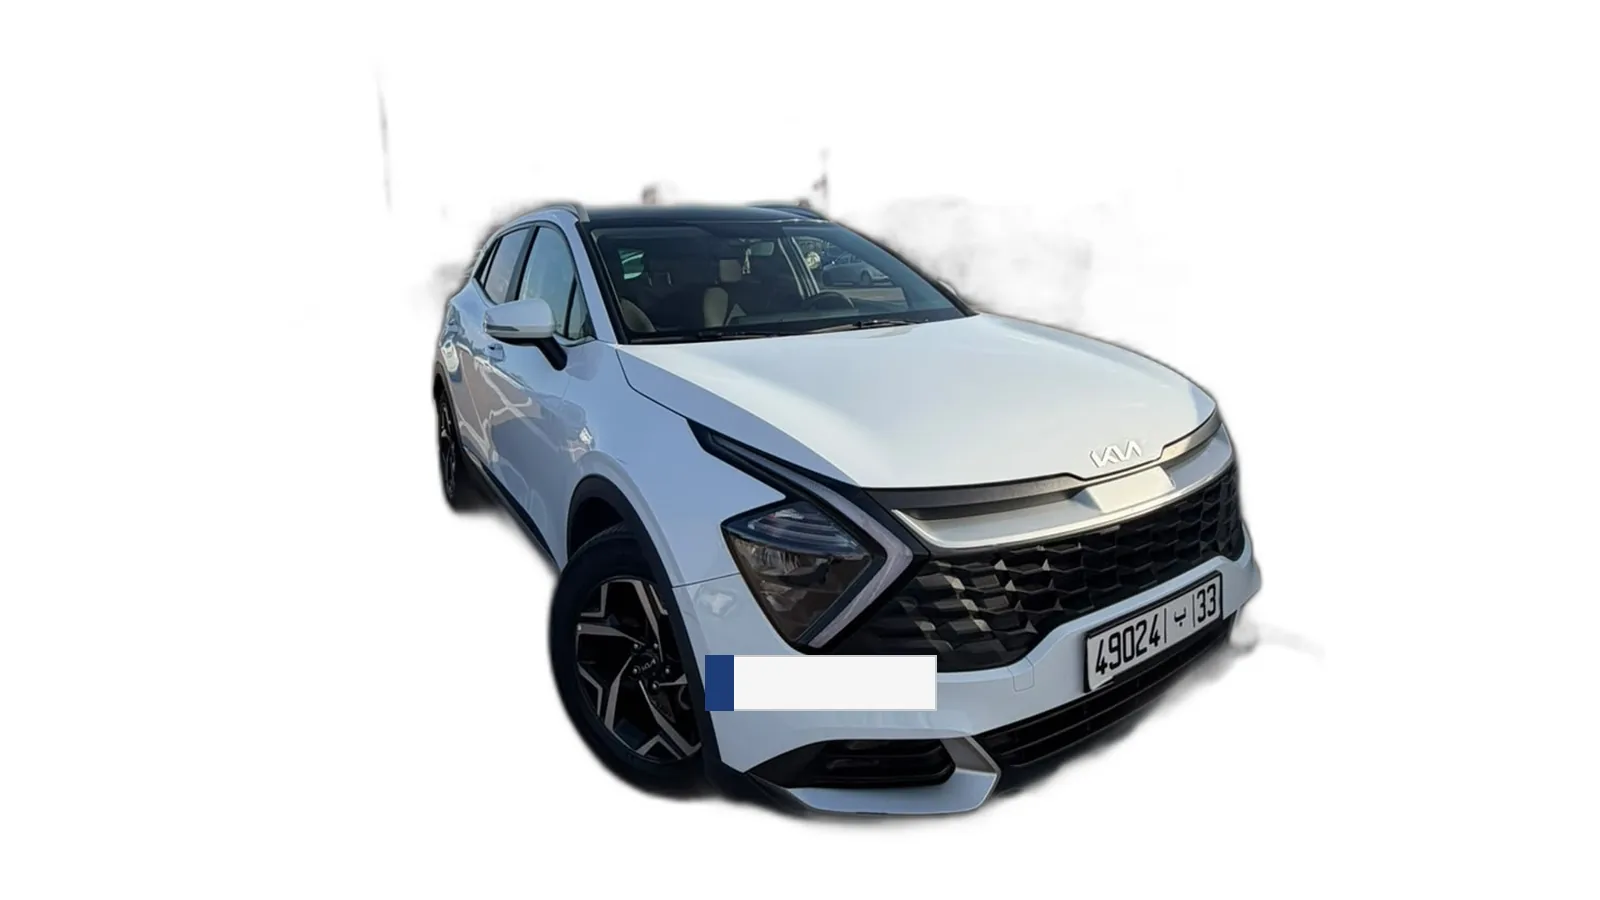
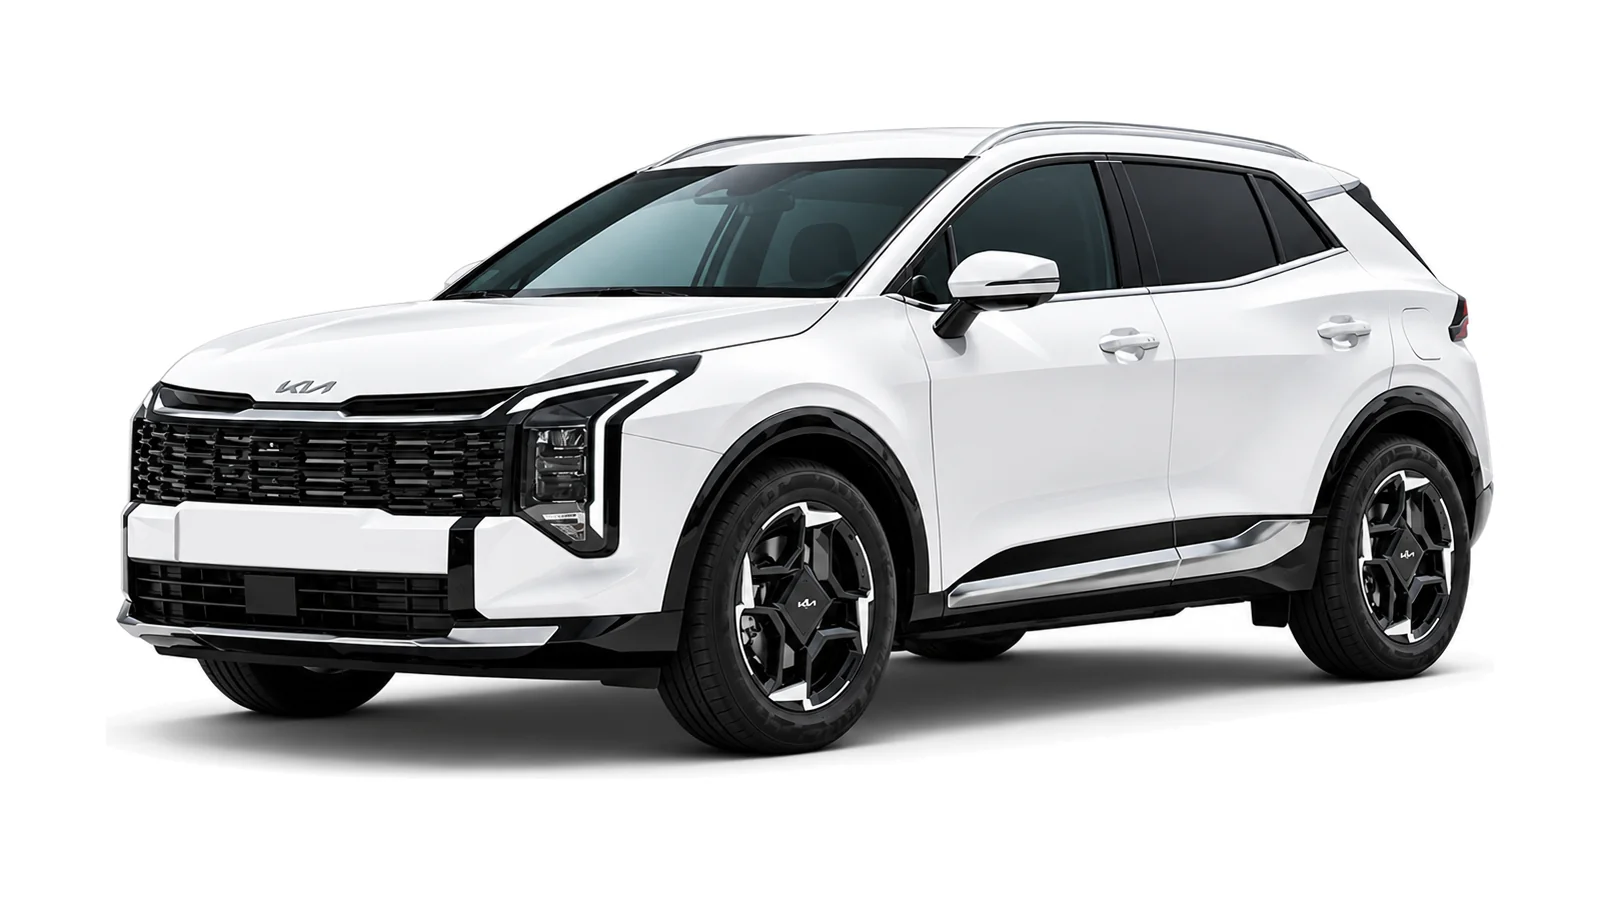
Use the Carzio studio render for Kia Sportage and reframe the About photo
- Rebuild kia-sportage.webp from new kia/Modern White Kia SUV Studio Render.jpg on pure white, no upscaling
- Render the About photo in a 16:9 frame so the full Carzio logo stays visible
- Regenerate about-new.webp from new about foto/Carzio_ Drive with Confidence.png
- Update docs/image-inventory.md

diff --git a/src/pages/About.tsx b/src/pages/About.tsx
@@ -85,7 +85,7 @@ export default function About() {
         <div className="relative z-10 max-w-7xl mx-auto px-4">
           <div className="grid grid-cols-1 lg:grid-cols-2 gap-12 items-center">
             <div
-              className="h-80 md:h-96 rounded-2xl bg-cover bg-center shadow-2xl"
+              className="aspect-video rounded-2xl bg-cover bg-center shadow-2xl ring-1 ring-white/15"
               style={{ backgroundImage: "url('/images/about-new.webp')" }}
             />
             <div>

diff --git a/docs/image-inventory.md b/docs/image-inventory.md
@@ -61,7 +61,7 @@ All car-card images are 16:9 WebP on a pure white background, trimmed and enlarg
 
 `dacia-sandero-stepway.webp`, `dacia-sandero-streetway.webp`, `dacia-logan.webp`, `dacia-duster-automatic-2025.webp`, `dacia-duster-manual-2026.webp`, `dacia-jogger.webp`, `renault-clio-5.webp`, `peugeot-208.webp`, `hyundai-i10.webp`, `vw-troc.webp`, `kia-sportage.webp`, `hyundai-tucson.webp`.
 
-The Kia Sportage derivative uses `inspiration/WhatsApp Image 2026-11-08 at 19.10.46 (7).jpeg` and has a clean, blank white Moroccan-style plate with no readable registration number.
+The Kia Sportage derivative uses `new kia/Modern White Kia SUV Studio Render.jpg` (owner-authorised on 2026-11-10). The flat studio backdrop is flood-filled and normalised to pure white, the car is trimmed at its natural resolution (no upscaling) and the file carries no readable registration number.
 
 ## Hero slides
 
@@ -69,4 +69,4 @@ The Kia Sportage derivative uses `inspiration/WhatsApp Image 2026-11-08 at 19.10
 
 ## About
 
-`public/images/about-new.webp` from `new about foto/Carzio_ Drive with Confidence.png`.
+`public/images/about-new.webp` from `new about foto/Carzio_ Drive with Confidence.png` (1600×900, full poster, nothing cropped). The About page renders it in a 16:9 frame so the full composition — including the `CARZIO LOCATION DE VOITURES` wordmark at the top left and the `CARZIO` badges on the right — stays visible at every breakpoint.
